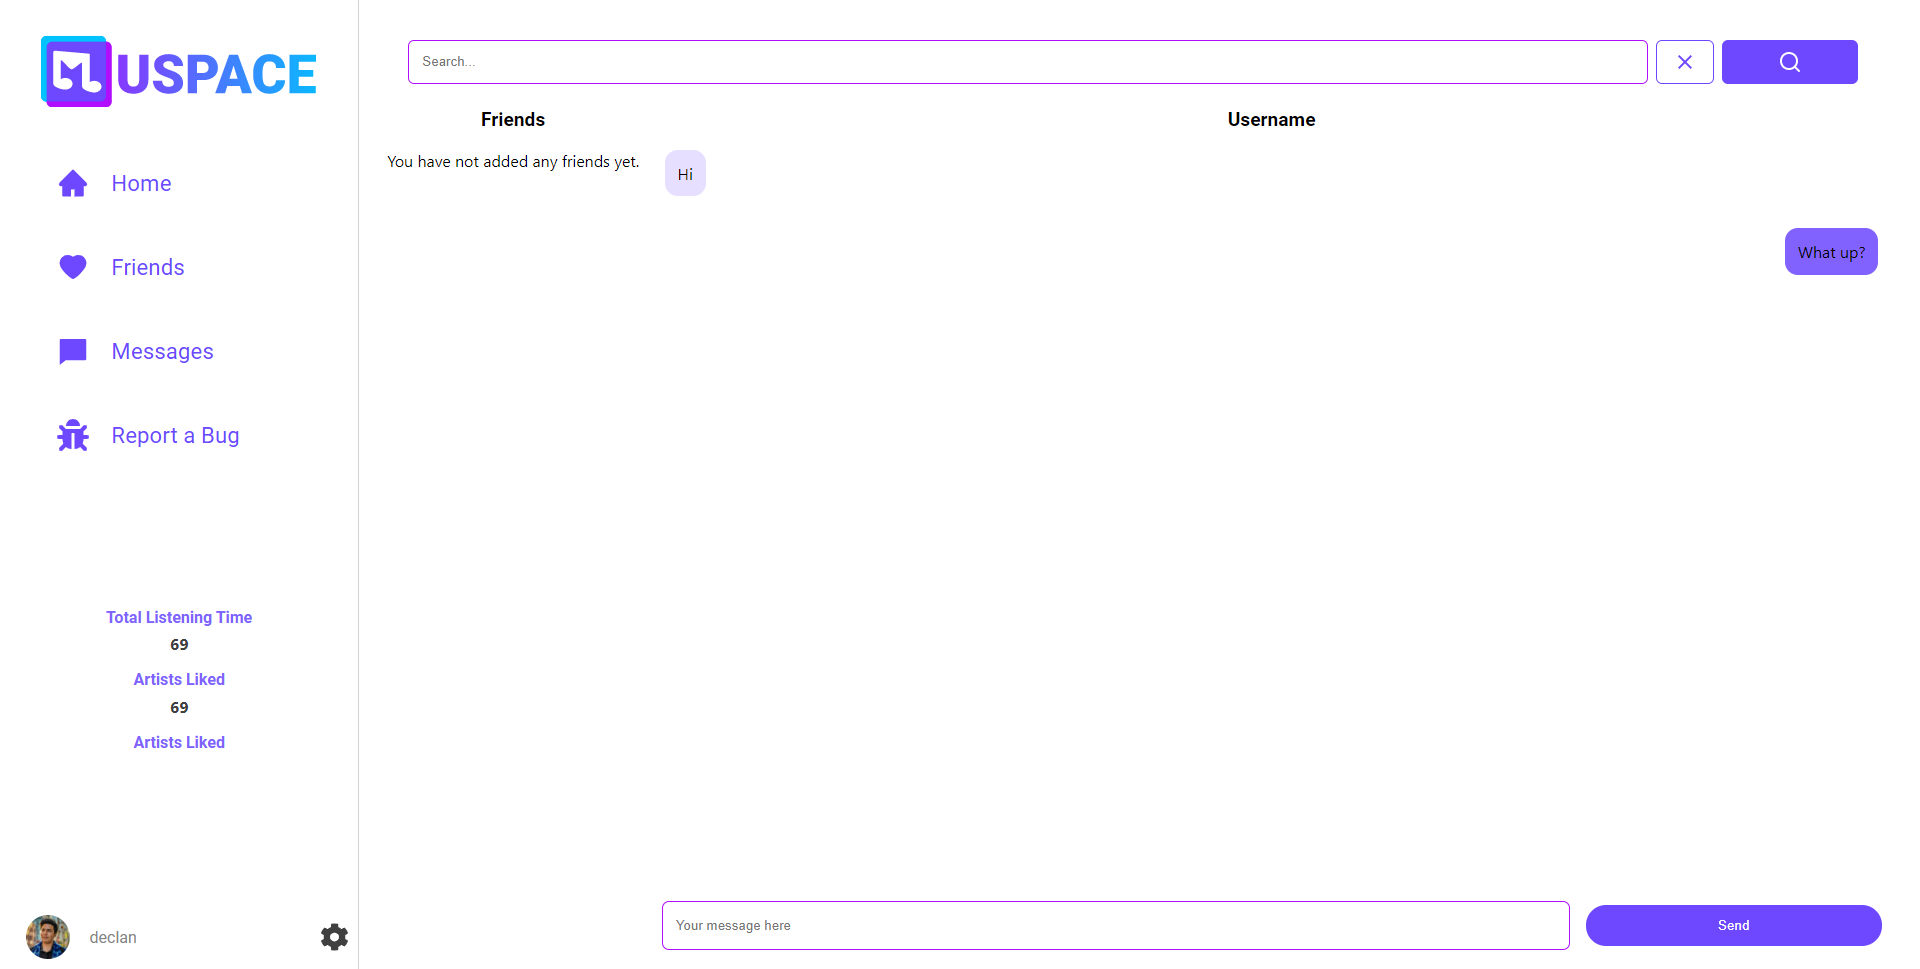
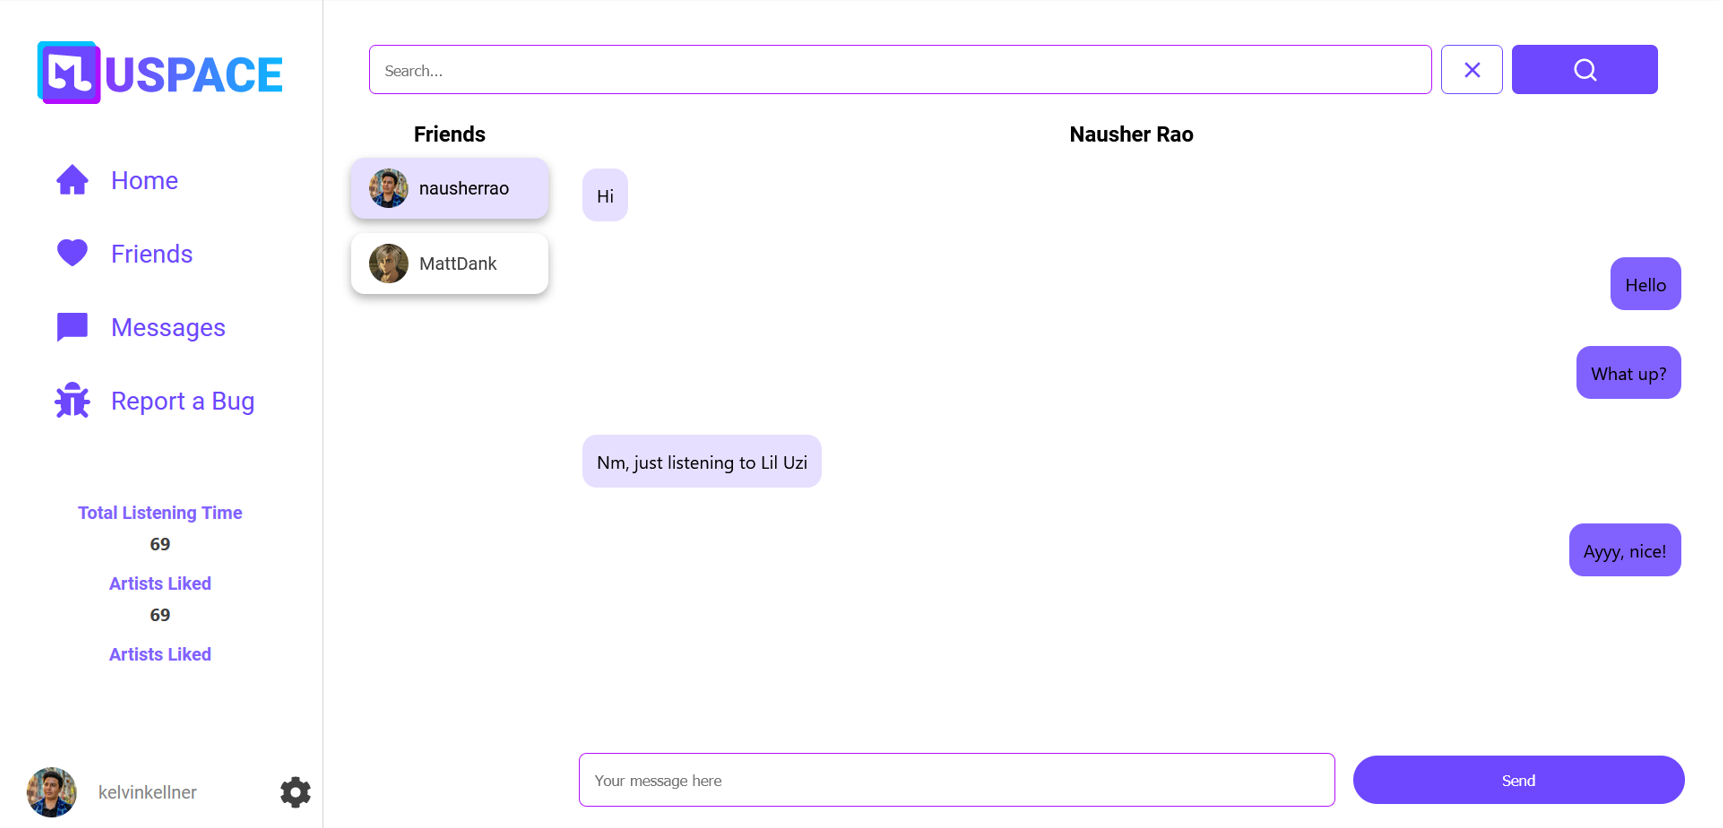
Add some chat related functions

diff --git a/src/functions/Firebase.js b/src/functions/Firebase.js
@@ -299,33 +299,31 @@ async function removeFriend(targetId) {
  * 
  */
 async function createNewChatRoom(targetId) {
-
-    // Create new chat room in "chats" collection
-    const counter = await db.collection("chats").doc("counter").get();
-    const newChatId = counter.counterField + 1;
-    await db.collection("chats").doc(newChatId).set(
+    const docRef = await db.collection("chats").add(
         {
-            messages: [],
+            messages: [
+                { "sender": "id", "timestamp": new Date(), "content": "content" },
+                { "sender": "id", "timestamp": new Date(), "content": "content" },
+                { "sender": "id", "timestamp": new Date(), "content": "content" },
+            ],
+
             source: auth.currentUser.uid,
             target: targetId
         }
     );
 
-    // Update counter for the next new chat room.
-    counter.counterField = newChatId;
-    await db.collection("chats").doc("counter").set(counter);
-
     // add chat to current users chat array
     const userDoc = await db.collection("users").doc(auth.currentUser.uid).get();
     const userData = userDoc.data();
-    userData.chats.push(newChatId);
+    userData.chats[targetId] = docRef.id;
     await db.collection("users").doc(auth.currentUser.uid).set(userData);
 
     // add chat to current user's chat array
     const targetDoc = await db.collection("users").doc(targetId).get();
     const targetData = targetDoc.data();
-    targetData.chats.push(newChatId);
+    targetData.chats[auth.currentUser.uid] = docRef.id;
     await db.collection("users").doc(targetId).set(targetData);
+    return docRef.id;
 }
 
 /**
@@ -397,7 +395,14 @@ async function getUsername() {
     const doc = await docRef.get();
     const username = doc.data().username;
     return username;
+}
 
+
+async function getFriendUsername(targetUid) {
+    const docRef = db.collection("users").doc(targetUid);
+    const doc = await docRef.get();
+    const username = doc.data().username;
+    return username;
 }
 
 /**
@@ -427,7 +432,6 @@ async function getFriends() {
     const doc = await docRef.get();
     const friends = doc.data().friends;
     return friends;
-
 }
 
 /**
@@ -441,6 +445,41 @@ async function getUser(uid) {
     const doc = await docRef.get();
     const user = doc.data();
     return user;
+}
+
+/**
+ * 
+ * Retrieves the chat object for the given chat ID.
+ * 
+ * TODO: try/catch
+ * 
+ */
+async function getChat(chatId) {
+    const docRef = db.collection("chats").doc(chatId);
+    const doc = await docRef.get();
+    const chat = doc.data();
+    return chat;
+
+}
+
+/**
+ *
+ * Tries to retrieve a chat for a given friend. If no chat exists, create
+ * a new one and return the ID of it.
+ *
+ */
+async function getChatForFriend(uid) {
+    const docRef = db.collection("users").doc(auth.currentUser);
+    const doc = await docRef.get();
+    const chats = doc.data().chats;
+
+    const chatUserIds = Object.keys(chats);
+    for (const id of chatUserIds) {
+        if (id == uid)
+            return chats[id];
+    }
+
+    return await createNewChatRoom(uid);
 }
 
 async function isSpotifyVerified() {
@@ -461,5 +500,5 @@ export default {
     loginWithEmail, loginWithGoogle, registerWithEmail,
     logout, deleteAccount, resetPassword, updateProfilePicture,
     addFriend, removeFriend, createNewChatRoom, sendChat, searchUsernames,
-    getProfilePicture, getUsername, getFullName, getFriends, getUser, isSpotifyVerified, isLoggedIn
+    getProfilePicture, getUsername, getFullName, getFriends, getUser, isSpotifyVerified, isLoggedIn, getChatForFriend, getFriendUsername, getChat
 };

diff --git a/src/pages/SettingsPage.jsx b/src/pages/SettingsPage.jsx
@@ -162,7 +162,7 @@ function deleteAccount(event) {
     const email = event.target.elements[0].value;
     const pass = event.target.elements[1].value;
 
-    Firebase.deleteAccount(email, pass);
+    //Firebase.deleteAccount(email, pass);
 }
 
 function notImplemented() {
